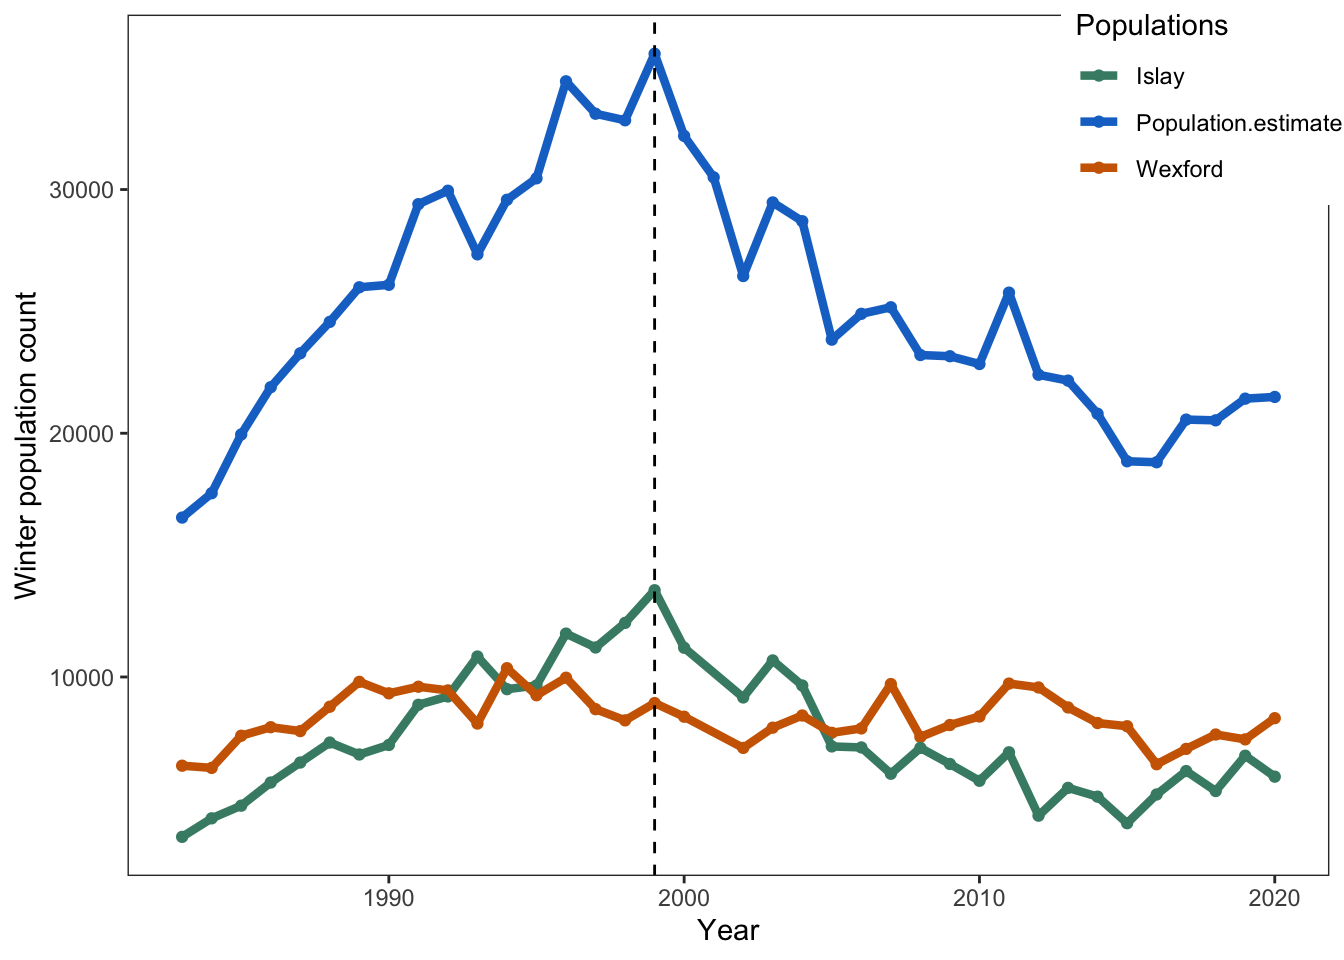
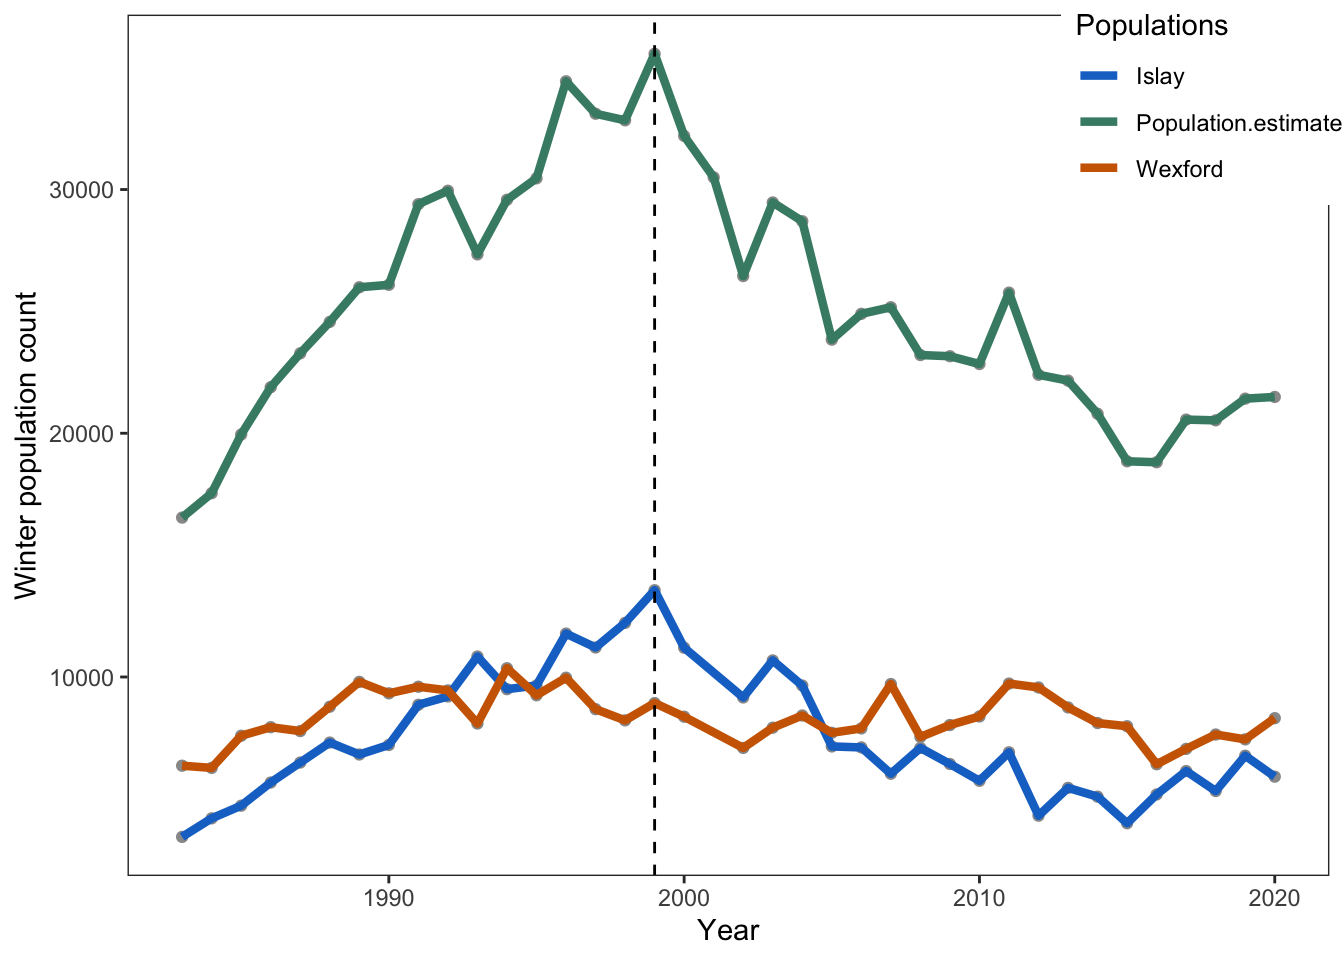
Fixing the figure with Max's feedback

diff --git a/docs/viz.html b/docs/viz.html
@@ -101,14 +101,15 @@ pre > code.sourceCode > span > a:first-child::before { text-decoration: underlin
 </div>
 <div class="cell">
 <div class="sourceCode cell-code" id="cb4"><pre class="sourceCode r code-with-copy"><code class="sourceCode r"><span id="cb4-1"><a href="#cb4-1" aria-hidden="true" tabindex="-1"></a>young_plot <span class="ot">&lt;-</span> <span class="fu">ggplot</span>(young_count, <span class="fu">aes</span>(<span class="at">x =</span> data_year, <span class="at">y =</span> Perc_young)) <span class="sc">+</span> </span>
-<span id="cb4-2"><a href="#cb4-2" aria-hidden="true" tabindex="-1"></a>  <span class="fu">geom_line</span>(<span class="fu">aes</span>(<span class="at">x =</span> data_year, <span class="at">y =</span> roll_mean, <span class="at">color =</span> Ringing.location), <span class="at">size =</span> <span class="dv">2</span>) <span class="sc">+</span> </span>
+<span id="cb4-2"><a href="#cb4-2" aria-hidden="true" tabindex="-1"></a>  <span class="fu">geom_line</span>(<span class="fu">aes</span>(<span class="at">x =</span> data_year, <span class="at">y =</span> roll_mean, <span class="at">color =</span> Ringing.location), <span class="at">linewidth =</span> <span class="dv">2</span>) <span class="sc">+</span> </span>
 <span id="cb4-3"><a href="#cb4-3" aria-hidden="true" tabindex="-1"></a>  <span class="fu">geom_line</span>(<span class="fu">aes</span>(<span class="at">color =</span> Ringing.location), <span class="at">alpha =</span> <span class="fl">0.2</span>, <span class="at">size =</span> <span class="fl">1.5</span>) <span class="sc">+</span> </span>
 <span id="cb4-4"><a href="#cb4-4" aria-hidden="true" tabindex="-1"></a>  <span class="fu">scale_color_manual</span>(<span class="at">values =</span> <span class="fu">c</span>(<span class="st">"dodgerblue3"</span>, <span class="st">"darkorange3"</span>)) <span class="sc">+</span> </span>
 <span id="cb4-5"><a href="#cb4-5" aria-hidden="true" tabindex="-1"></a>  <span class="fu">geom_vline</span>(<span class="fu">aes</span>(<span class="at">xintercept =</span> max_mp), <span class="at">linetype =</span> <span class="st">"dashed"</span>) <span class="sc">+</span> </span>
 <span id="cb4-6"><a href="#cb4-6" aria-hidden="true" tabindex="-1"></a>  <span class="fu">theme_bw</span>() <span class="sc">+</span> </span>
 <span id="cb4-7"><a href="#cb4-7" aria-hidden="true" tabindex="-1"></a>  <span class="fu">theme</span>(<span class="at">panel.grid =</span> <span class="fu">element_blank</span>(), <span class="at">legend.position =</span> <span class="fu">c</span>(.<span class="dv">9</span>, .<span class="dv">9</span>)) <span class="sc">+</span> </span>
-<span id="cb4-8"><a href="#cb4-8" aria-hidden="true" tabindex="-1"></a>  <span class="fu">labs</span>(<span class="at">color =</span> <span class="st">"Populations"</span>) <span class="sc">+</span> <span class="fu">xlab</span>(<span class="st">"Year"</span>) <span class="sc">+</span> </span>
-<span id="cb4-9"><a href="#cb4-9" aria-hidden="true" tabindex="-1"></a>  <span class="fu">ylab</span>(<span class="st">"Percentage of juveniles"</span>)</span></code><button title="Copy to Clipboard" class="code-copy-button"><i class="bi"></i></button></pre></div>
+<span id="cb4-8"><a href="#cb4-8" aria-hidden="true" tabindex="-1"></a>  <span class="fu">labs</span>(<span class="at">color =</span> <span class="st">"Populations"</span>, </span>
+<span id="cb4-9"><a href="#cb4-9" aria-hidden="true" tabindex="-1"></a>       <span class="at">x =</span> <span class="st">"Year"</span>, </span>
+<span id="cb4-10"><a href="#cb4-10" aria-hidden="true" tabindex="-1"></a>       <span class="at">y =</span> <span class="st">"Percentage of juveniles"</span>)</span></code><button title="Copy to Clipboard" class="code-copy-button"><i class="bi"></i></button></pre></div>
 <div class="cell-output cell-output-stderr">
 <pre><code>Warning: Using `size` aesthetic for lines was deprecated in ggplot2 3.4.0.
 ℹ Please use `linewidth` instead.</code></pre>
@@ -125,21 +126,18 @@ pre > code.sourceCode > span > a:first-child::before { text-decoration: underlin
 <div class="sourceCode cell-code" id="cb8"><pre class="sourceCode r code-with-copy"><code class="sourceCode r"><span id="cb8-1"><a href="#cb8-1" aria-hidden="true" tabindex="-1"></a>pop_plot <span class="ot">&lt;-</span> pop_counts <span class="sc">%&gt;%</span> </span>
 <span id="cb8-2"><a href="#cb8-2" aria-hidden="true" tabindex="-1"></a>  <span class="fu">drop_na</span>() <span class="sc">%&gt;%</span> </span>
 <span id="cb8-3"><a href="#cb8-3" aria-hidden="true" tabindex="-1"></a>  <span class="fu">ggplot</span>(<span class="fu">aes</span>(<span class="at">x =</span> spring, <span class="at">y =</span> count)) <span class="sc">+</span> </span>
-<span id="cb8-4"><a href="#cb8-4" aria-hidden="true" tabindex="-1"></a>  <span class="fu">geom_point</span>(<span class="fu">aes</span>(<span class="at">color =</span> site), <span class="at">linecolor =</span> <span class="st">"gray60"</span>) <span class="sc">+</span> </span>
+<span id="cb8-4"><a href="#cb8-4" aria-hidden="true" tabindex="-1"></a>  <span class="fu">geom_point</span>(<span class="fu">aes</span>(<span class="at">color =</span> site), <span class="at">color =</span> <span class="st">"gray60"</span>) <span class="sc">+</span> </span>
 <span id="cb8-5"><a href="#cb8-5" aria-hidden="true" tabindex="-1"></a>  <span class="fu">geom_line</span>(<span class="fu">aes</span>(<span class="at">color =</span> site), <span class="at">size =</span> <span class="fl">1.5</span>) <span class="sc">+</span> </span>
-<span id="cb8-6"><a href="#cb8-6" aria-hidden="true" tabindex="-1"></a>  <span class="fu">scale_color_manual</span>(<span class="at">values =</span> <span class="fu">c</span>(<span class="st">"aquamarine4"</span>, <span class="st">"dodgerblue3"</span>, <span class="st">"darkorange3"</span>)) <span class="sc">+</span> </span>
+<span id="cb8-6"><a href="#cb8-6" aria-hidden="true" tabindex="-1"></a>  <span class="fu">scale_color_manual</span>(<span class="at">values =</span> <span class="fu">c</span>(<span class="st">"dodgerblue3"</span>, <span class="st">"aquamarine4"</span>, <span class="st">"darkorange3"</span>)) <span class="sc">+</span> </span>
 <span id="cb8-7"><a href="#cb8-7" aria-hidden="true" tabindex="-1"></a>  <span class="fu">geom_vline</span>(<span class="fu">aes</span>(<span class="at">xintercept =</span> max_mp), <span class="at">linetype =</span> <span class="st">"dashed"</span>) <span class="sc">+</span> </span>
 <span id="cb8-8"><a href="#cb8-8" aria-hidden="true" tabindex="-1"></a>  <span class="fu">theme_bw</span>() <span class="sc">+</span> </span>
 <span id="cb8-9"><a href="#cb8-9" aria-hidden="true" tabindex="-1"></a>  <span class="fu">theme</span>(<span class="at">panel.grid =</span> <span class="fu">element_blank</span>(), </span>
 <span id="cb8-10"><a href="#cb8-10" aria-hidden="true" tabindex="-1"></a>        <span class="at">legend.position =</span> <span class="fu">c</span>(.<span class="dv">9</span>, .<span class="dv">9</span>)) <span class="sc">+</span> </span>
-<span id="cb8-11"><a href="#cb8-11" aria-hidden="true" tabindex="-1"></a>  <span class="fu">labs</span>(<span class="at">color =</span> <span class="st">"Populations"</span>) <span class="sc">+</span> </span>
-<span id="cb8-12"><a href="#cb8-12" aria-hidden="true" tabindex="-1"></a>  <span class="fu">xlab</span>(<span class="st">"Year"</span>) <span class="sc">+</span> </span>
-<span id="cb8-13"><a href="#cb8-13" aria-hidden="true" tabindex="-1"></a>  <span class="fu">ylab</span>(<span class="st">"Winter population count"</span>)</span></code><button title="Copy to Clipboard" class="code-copy-button"><i class="bi"></i></button></pre></div>
-<div class="cell-output cell-output-stderr">
-<pre><code>Warning in geom_point(aes(color = site), linecolor = "gray60"): Ignoring
-unknown parameters: `linecolour`</code></pre>
-</div>
-<div class="sourceCode cell-code" id="cb10"><pre class="sourceCode r code-with-copy"><code class="sourceCode r"><span id="cb10-1"><a href="#cb10-1" aria-hidden="true" tabindex="-1"></a>pop_plot</span></code><button title="Copy to Clipboard" class="code-copy-button"><i class="bi"></i></button></pre></div>
+<span id="cb8-11"><a href="#cb8-11" aria-hidden="true" tabindex="-1"></a>  <span class="fu">labs</span>(<span class="at">color =</span> <span class="st">"Populations"</span>, </span>
+<span id="cb8-12"><a href="#cb8-12" aria-hidden="true" tabindex="-1"></a>       <span class="at">x =</span> <span class="st">"Year"</span>, </span>
+<span id="cb8-13"><a href="#cb8-13" aria-hidden="true" tabindex="-1"></a>       <span class="at">y =</span> <span class="st">"Winter population count"</span>)</span>
+<span id="cb8-14"><a href="#cb8-14" aria-hidden="true" tabindex="-1"></a></span>
+<span id="cb8-15"><a href="#cb8-15" aria-hidden="true" tabindex="-1"></a>pop_plot</span></code><button title="Copy to Clipboard" class="code-copy-button"><i class="bi"></i></button></pre></div>
 <div class="cell-output-display">
 <p><img src="viz_files/figure-html/unnamed-chunk-3-1.png" class="img-fluid" width="672"></p>
 </div>
